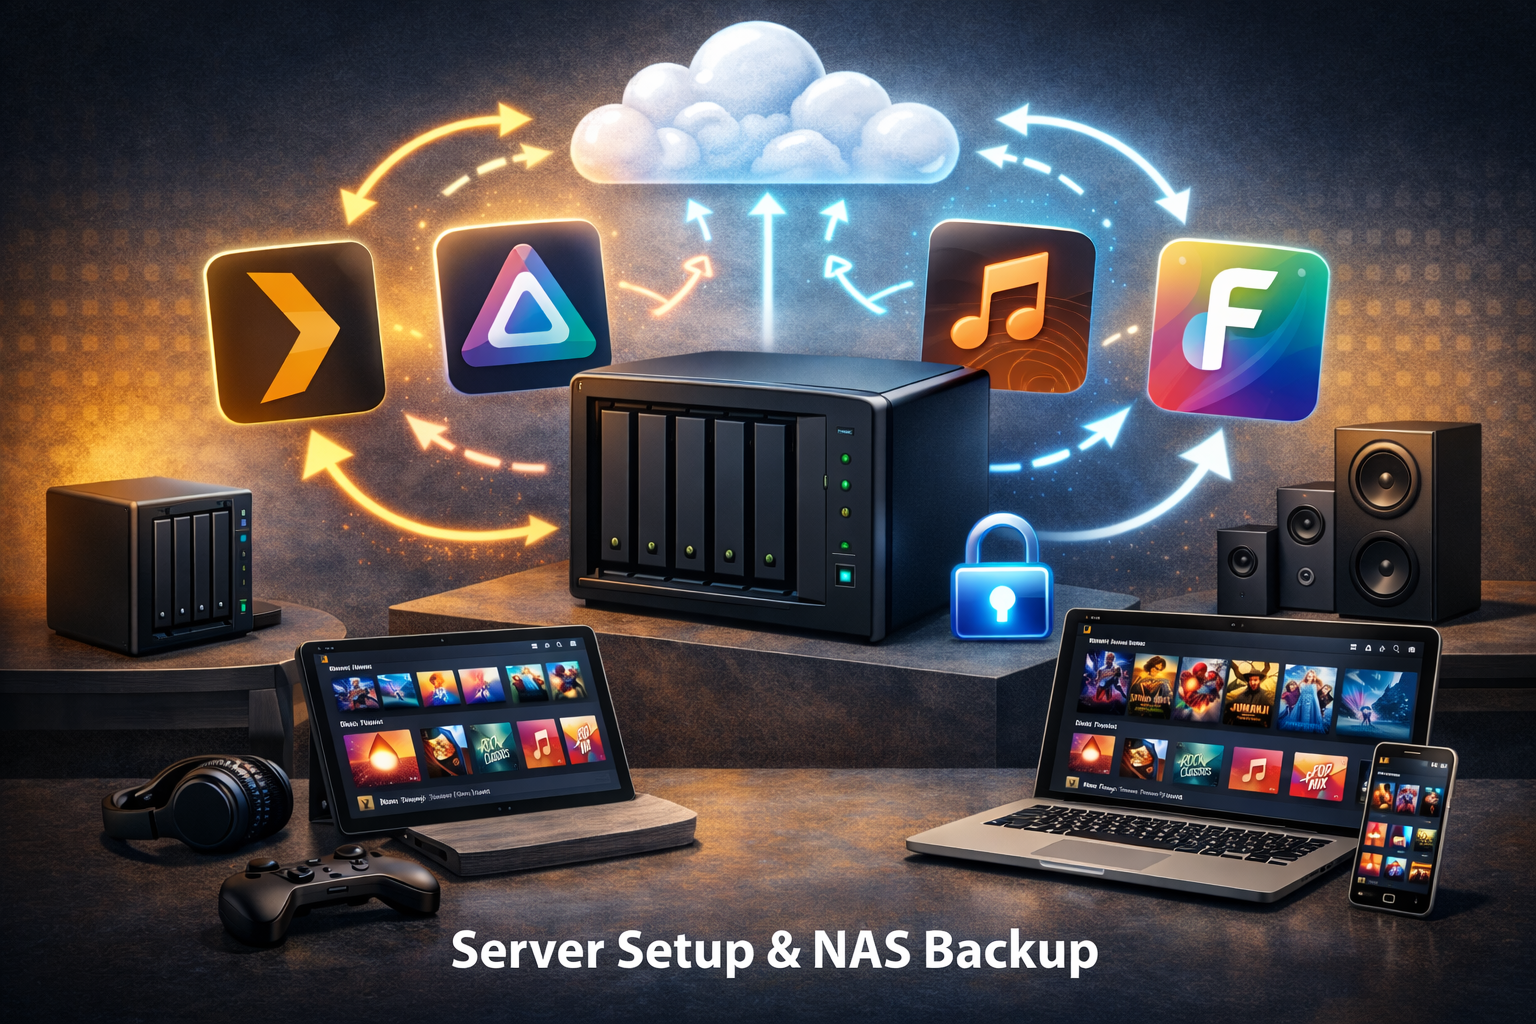
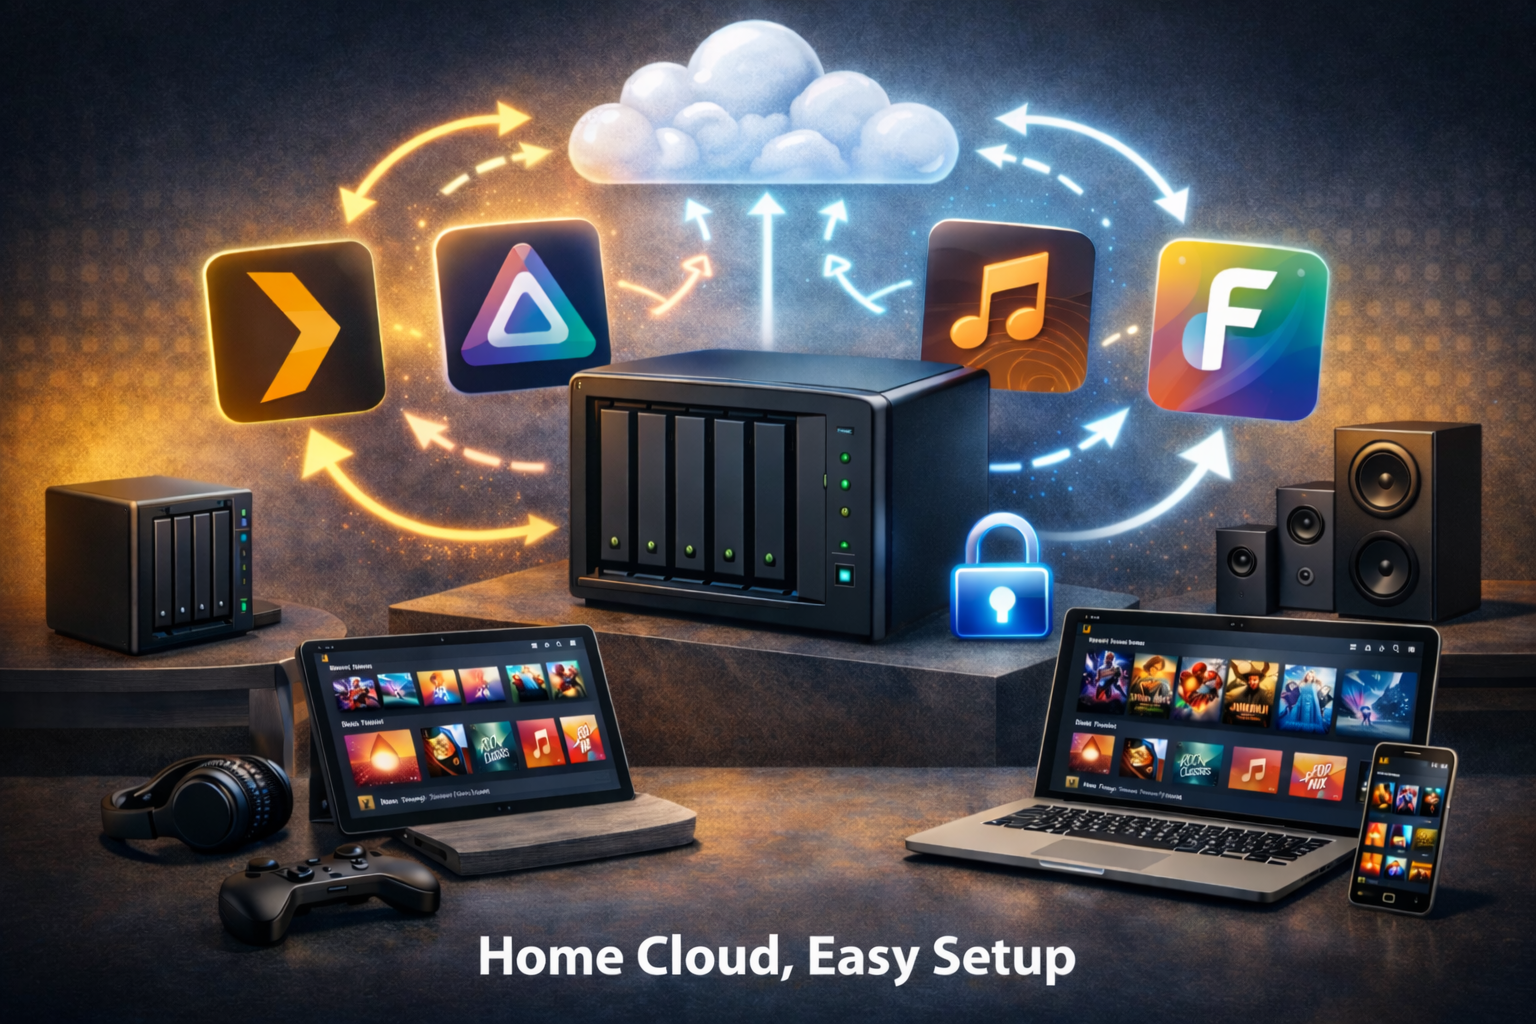
part1_ro

diff --git a/Own_projects/nas_site/pp/index.html b/Own_projects/nas_site/pp/index.html
@@ -24,15 +24,20 @@
     <!-- Left: Text + CTA -->
     <div>
       <h1 class="text-4xl md:text-5xl font-bold mb-6 text-white">
-        Simple & Secure NAS Setup for Home Users
+        Privat sigur si simplu !
+        Cloud personal la tine acasa !
       </h1>
       <p class="text-xl text-gray-400 mb-10 max-w-xl">
-        I help you safely store and access your photos, videos, and backups using a private home NAS — no cloud subscriptions.
+        Ai control total asupra datelor tale: fotografii, video și date private, accesibile oricând printr-un cloud privat.
       </p>
-      <a href="#contact"
+      <p class="text-xl text-gray-400 mb-10 max-w-xl">
+        Fara subscriptii, fara abonamente, fara obligatii !
+      </p>
+      <a href="mailto:your@email.com?subject=Consultatie%20Cloud%20Privat"
          class="bg-blue-600 hover:bg-blue-500 text-white px-8 py-4 rounded-lg text-lg transition">
-        Get a Free Consultation
+        Hai să discutăm gratuit
       </a>
+
     </div>
 
     <!-- Right: Image -->
@@ -40,11 +45,10 @@
 
       <img
           src="assets/nas3.jpg"
-          alt="Home NAS / Server"
+          alt="Home Cloud Setup"
           class="w-[360px] md:w-[460px] lg:w-[520px]
                  h-auto rounded-2xl shadow-xl shadow-black/50
                  transition-transform duration-500 hover:scale-[1.04]">
-
     </div>
 
   </div>
@@ -60,10 +64,10 @@
                   hover:shadow-lg hover:shadow-blue-500/10 flex flex-col items-start gap-4">
 <!--          <img src="assets/nas-setup.jpg" alt="NAS" class="w-12 h-12">-->
           <h3 class="text-xl font-semibold text-white group-hover:text-blue-400">
-            Home NAS Setup
+            Configurare Server
           </h3>
           <p class="text-gray-400">
-            Professional installation and secure configuration.
+            Instalare și configurare sigură, fără bătăi de cap.
           </p>
     </a>
 
@@ -74,7 +78,7 @@
                   hover:shadow-lg hover:shadow-blue-500/10 flex flex-col items-start gap-4">
       <h3 class="text-xl font-semibold mb-3 text-white group-hover:text-blue-400">Media Server Setup</h3>
       <p class="text-gray-400">
-        Professional installation and secure configuration.
+        Toata colectia ta de filme si muzica la un singur click distanta pe orice dispozitiv.
       </p>
     </a>
 
@@ -82,9 +86,9 @@
        class="group bg-gray-900 p-8 rounded-xl border border-gray-800
                   hover:border-blue-500 hover:bg-gray-800 transition
                   hover:shadow-lg hover:shadow-blue-500/10 flex flex-col items-start gap-4">
-      <h3 class="text-xl font-semibold mb-3 text-white group-hover:text-blue-400">Private Cloud & Self‑Hosting</h3>
+      <h3 class="text-xl font-semibold mb-3 text-white group-hover:text-blue-400">Cloud privat la tine acasa</h3>
       <p class="text-gray-400">
-        Safe access to your files from anywhere.
+        Acceseaza in sigurata datele tale de oriunde.
       </p>
     </a>
 
@@ -101,24 +105,24 @@
       <!-- How It Works -->
       <div>
         <h3 class="text-xl font-semibold mb-4 text-white">
-          How It Works
+          Cum functioneaza
         </h3>
         <ul class="space-y-3 text-gray-400">
-          <li>1. Discuss your needs</li>
-          <li>2. Secure NAS setup</li>
-          <li>3. Safe access & support</li>
+          <li>1. Discutam nevoile tale</li>
+          <li>2. Facem setupul</li>
+          <li>3. Acces sigur & support</li>
         </ul>
       </div>
 
       <!-- Why -->
       <div>
         <h3 class="text-xl font-semibold mb-4 text-white">
-          Why Choose Me
+          De ce Cloud privat
         </h3>
         <ul class="space-y-3 text-gray-400">
-          <li>• Privacy-first approach</li>
-          <li>• No unnecessary cloud services</li>
-          <li>• Clear, simple explanations</li>
+          <li>• Intimitate digitală, fără compromisuri. </li>
+          <li>• Datele tale rămân doar la tine.</li>
+          <li>• Fara abonamente si reguli</li>
         </ul>
       </div>
 
@@ -128,9 +132,8 @@
           Pricing
         </h3>
         <ul class="space-y-3 text-gray-400">
-          <li>• One-time setup fee</li>
-          <li>• No subscriptions</li>
-          <li class="text-white font-semibold">From €XX</li>
+          <li>• O singura plata</li>
+          <li>• Fara abonamente</li>
         </ul>
       </div>
 
@@ -138,27 +141,6 @@
 
   </div>
 </section>
-
-<!-- Contact -->
-<section id="contact" class="pt-12 pb-24 border-t border-gray-800">
-  <div class="max-w-6xl mx-auto px-6">
-    <h2 class="text-3xl font-bold mb-4 text-white">
-      Get in Touch
-    </h2>
-    <p class="text-gray-400 mb-8 max-w-xl">
-      Contact me to discuss your home NAS setup or ask any questions.
-    </p>
-
-    <a href="mailto:your@email.com"
-       class="inline-block border border-blue-500 text-blue-400
-              hover:bg-blue-500 hover:text-white
-              px-6 py-3 rounded-lg font-semibold transition
-              focus:outline-none focus:ring-2 focus:ring-blue-500/50">
-      Contact Me
-    </a>
-  </div>
-</section>
-
 
 </body>
 </html>

diff --git a/Own_projects/nas_site/pp/nas-setup.html b/Own_projects/nas_site/pp/nas-setup.html
@@ -23,27 +23,11 @@
 
     <div class="mt-14 grid md:grid-cols-[1fr_1.2fr] gap-16 items-start"> <div>
         <h1 class="text-4xl md:text-5xl font-bold mb-6">
-          Basic Home NAS Setup
+          Configurare basic - Network Attached Storage
         </h1>
 
         <ul class="space-y-4 text-gray-400 text-base md:text-lg mb-10">
-<!--          <li class="flex gap-3">-->
-<!--            <span class="text-blue-400 mt-1">•</span>-->
-<!--            <div>-->
-<!--              <p class="text-gray-300 mb-3">NAS OS installation</p>-->
-<!--              <ul class="space-y-2 ml-1">-->
-<!--&lt;!&ndash;                <li>&ndash;&gt;-->
-<!--                  <a href="https://www.truenas.com/truenas-scale/" target="_blank" class="block text-blue-400 hover:text-blue-300 transition font-medium">TrueNAS SCALE</a>-->
-<!--                </li>-->
-<!--                <li>-->
-<!--                  <a href="https://unraid.net/" target="_blank" class="block text-blue-400 hover:text-blue-300 transition font-medium">Unraid</a>-->
-<!--                </li>-->
-<!--                <li>-->
-<!--                  <a href="https://nas.ugreen.com/" target="_blank" class="block text-blue-400 hover:text-blue-300 transition font-medium">Ugreen NAS</a>-->
-<!--                </li>-->
-<!--              </ul>-->
-<!--            </div>-->
-          <li>• NAS OS installation
+          <li>• Alegerea si configurarea sistemului de operare
           <li>• Disk configuration & storage planning</li>
           <li>• User accounts & shared folders</li>
           <li>• Automated backups</li>
